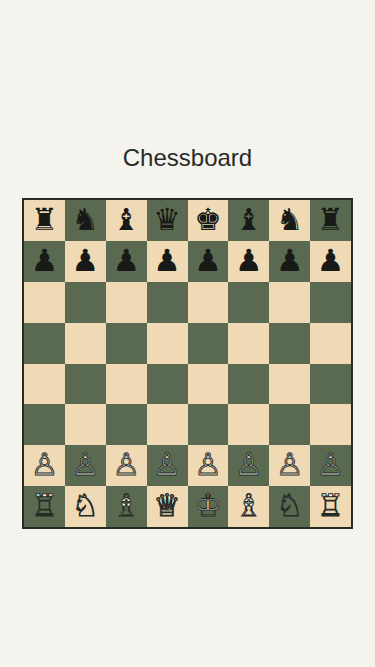
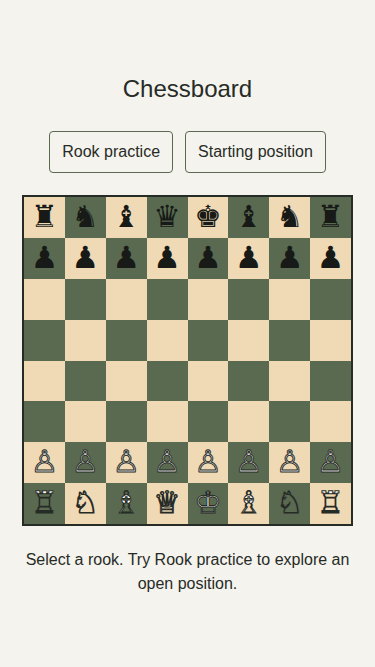
Implement rook movement with blocking, captures and browser proof

diff --git a/app/chessboard.tsx b/app/chessboard.tsx
@@ -1,28 +1,72 @@
-import Piece, { backRank } from "./piece";
+"use client";
 
-export default function Chessboard() {
+import { useState } from "react";
+import Piece from "./piece";
+import { type Board, canMoveRook, moveRook, rookPractice, squareName, startingBoard } from "./movement";
+
+export function BoardView({ board = startingBoard(), selected = null, onSquare = () => {} }: {
+  board?: Board;
+  selected?: number | null;
+  onSquare?: (index: number) => void;
+}) {
   return (
-    <div
-      className="chessboard"
-      role="group"
-      aria-label="Chessboard: 16 white pieces and 16 black pieces in their starting positions."
-    >
-      {Array.from({ length: 64 }, (_, index) => {
-        const row = Math.floor(index / 8);
-        const column = index % 8;
-        const color = (row + column) % 2 === 0 ? "light" : "dark";
-        const type = row === 0 || row === 7 ? backRank[column]
-          : row === 1 || row === 6 ? "pawn" : null;
-
+    <div className="chessboard" role="group" aria-label="Chessboard: select a rook, then a square on its rank or file.">
+      {board.map((piece, index) => {
+        const color = (Math.floor(index / 8) + index % 8) % 2 === 0 ? "light" : "dark";
+        const destination = selected !== null && canMoveRook(board, selected, index);
         return (
-          <div
+          <button
             key={index}
+            type="button"
             className={`square square--${color}`}
+            aria-label={`${squareName(index)}: ${piece ? `${piece.color} ${piece.type}` : "empty"}${destination ? ", available move" : ""}`}
+            aria-pressed={selected === index}
+            data-destination={destination || undefined}
+            onClick={() => onSquare(index)}
           >
-            {type && <Piece color={row < 2 ? "black" : "white"} type={type} />}
-          </div>
+            {piece && <Piece color={piece.color} type={piece.type} />}
+          </button>
         );
       })}
     </div>
+  );
+}
+
+export default function Chessboard() {
+  const [board, setBoard] = useState(startingBoard);
+  const [selected, setSelected] = useState<number | null>(null);
+  const [message, setMessage] = useState("Select a rook. Try Rook practice to explore an open position.");
+
+  function onSquare(index: number) {
+    if (selected === index) {
+      setSelected(null);
+      setMessage("Selection cleared.");
+    } else if (selected !== null && canMoveRook(board, selected, index)) {
+      setBoard(moveRook(board, selected, index));
+      setSelected(null);
+      setMessage(`Rook moved from ${squareName(selected)} to ${squareName(index)}.`);
+    } else if (board[index]?.type === "rook") {
+      setSelected(index);
+      setMessage(`Rook selected on ${squareName(index)}. Choose a highlighted square.`);
+    } else {
+      setMessage(selected === null ? "Select a rook to move." : "That move is unavailable. Choose a highlighted square.");
+    }
+  }
+
+  function reset(practice: boolean) {
+    setBoard(practice ? rookPractice() : startingBoard());
+    setSelected(null);
+    setMessage(practice ? "Rook practice: move along a rank or file. Pieces block the path; opposing pieces can be captured." : "Starting position restored. The rooks are blocked by their own pieces.");
+  }
+
+  return (
+    <>
+      <div className="board-controls">
+        <button type="button" onClick={() => reset(true)}>Rook practice</button>
+        <button type="button" onClick={() => reset(false)}>Starting position</button>
+      </div>
+      <BoardView board={board} selected={selected} onSquare={onSquare} />
+      <p className="board-status" role="status">{message}</p>
+    </>
   );
 }

diff --git a/tests/e2e/chessboard.spec.ts b/tests/e2e/chessboard.spec.ts
@@ -51,3 +51,47 @@ for (const viewport of [
     await page.screenshot({ path: `docs/screenshots/chessboard-${viewport.name}.png`, fullPage: true });
   });
 }
+
+for (const mobile of [false, true]) {
+  test(`rook movement, blocking, capture and reset ${mobile ? 'mobile' : 'desktop'}`, async ({ page }) => {
+    await page.setViewportSize(mobile ? { width: 375, height: 812 } : { width: 1280, height: 1000 });
+    await page.goto('/');
+    const square = (name: string) => page.getByRole('button', { name: new RegExp(`^${name}:`) });
+    await square('a1').click();
+    await expect(page.locator('[data-destination]')).toHaveCount(0);
+    await square('a3').click();
+    await expect(square('a1')).toHaveAttribute('aria-label', 'a1: white rook');
+    await page.getByRole('button', { name: 'Rook practice', exact: true }).click();
+    await square('d4').focus();
+    await page.keyboard.press('Enter');
+    await expect(square('d4')).toHaveAttribute('aria-pressed', 'true');
+    await expect(square('d6')).toHaveAttribute('data-destination', 'true');
+    for (const name of ['e5', 'g4', 'h4', 'd7']) {
+      await square(name).click();
+      await expect(square('d4')).toHaveAttribute('aria-pressed', 'true');
+      await expect(page.getByRole('status')).toContainText('unavailable');
+    }
+    await page.screenshot({ path: `docs/screenshots/rook-selected-${mobile ? 'mobile' : 'desktop'}.png`, fullPage: true });
+    await square('a4').click();
+    await expect(square('d4')).toHaveAttribute('aria-label', 'd4: empty');
+    await expect(square('a4')).toHaveAttribute('aria-label', 'a4: white rook');
+    await square('a4').click();
+    await square('d4').click();
+    await square('d4').click();
+    await square('d6').focus();
+    await page.keyboard.press('Space');
+    await expect(square('d6')).toHaveAttribute('aria-label', 'd6: white rook');
+    await expect(page.getByRole('img', { name: 'black pawn', exact: true })).toHaveCount(0);
+    await expect(page.getByRole('status')).toHaveText('Rook moved from d4 to d6.');
+    await page.screenshot({ path: `docs/screenshots/rook-capture-${mobile ? 'mobile' : 'desktop'}.png`, fullPage: true });
+    await square('h8').click();
+    await square('h1').click();
+    await expect(square('h1')).toHaveAttribute('aria-label', 'h1: black rook');
+    await square('h1').click();
+    await square('h1').click();
+    await expect(square('h1')).toHaveAttribute('aria-pressed', 'false');
+    await page.getByRole('button', { name: 'Starting position', exact: true }).click();
+    await expect(page.getByRole('img')).toHaveCount(32);
+    await expect(page.locator('[aria-pressed="true"]')).toHaveCount(0);
+  });
+}

diff --git a/app/movement.ts b/app/movement.ts
@@ -1,0 +1,48 @@
+import { backRank, type PieceColor, type PieceType } from "./piece";
+
+export type BoardPiece = { color: PieceColor; type: PieceType };
+export type Board = (BoardPiece | null)[];
+
+export function startingBoard(): Board {
+  return Array.from({ length: 64 }, (_, index) => {
+    const row = Math.floor(index / 8);
+    const type = row === 0 || row === 7 ? backRank[index % 8]
+      : row === 1 || row === 6 ? "pawn" : null;
+    return type ? { color: row < 2 ? "black" : "white", type } : null;
+  });
+}
+
+export function rookPractice(): Board {
+  const board: Board = Array(64).fill(null);
+  board[35] = { color: "white", type: "rook" }; // d4
+  board[19] = { color: "black", type: "pawn" }; // d6
+  board[38] = { color: "white", type: "pawn" }; // g4
+  board[7] = { color: "black", type: "rook" }; // h8
+  return board;
+}
+
+export function squareName(index: number): string {
+  return `${"abcdefgh"[index % 8]}${8 - Math.floor(index / 8)}`;
+}
+
+export function canMoveRook(board: Board, from: number, to: number): boolean {
+  if (board.length !== 64 || !Number.isInteger(from) || !Number.isInteger(to)
+    || from < 0 || from >= 64 || to < 0 || to >= 64 || from === to) return false;
+  const piece = board[from];
+  if (piece?.type !== "rook" || board[to]?.color === piece.color) return false;
+  const sameRank = Math.floor(from / 8) === Math.floor(to / 8);
+  if (!sameRank && from % 8 !== to % 8) return false;
+  const step = Math.sign(to - from) * (sameRank ? 1 : 8);
+  for (let square = from + step; square !== to; square += step) {
+    if (board[square]) return false;
+  }
+  return true;
+}
+
+export function moveRook(board: Board, from: number, to: number): Board {
+  if (!canMoveRook(board, from, to)) return board;
+  const next = [...board];
+  next[to] = next[from];
+  next[from] = null;
+  return next;
+}

diff --git a/app/globals.css b/app/globals.css
@@ -60,3 +60,41 @@ h1 {
 .square--dark {
   background: #596a50;
 }
+
+.square {
+  border: 0;
+  padding: 0;
+  cursor: pointer;
+}
+
+.square[aria-pressed="true"] {
+  box-shadow: inset 0 0 0 4px #a54d00;
+}
+
+.square[data-destination] {
+  box-shadow: inset 0 0 0 3px #286ca0;
+}
+
+.square:focus-visible {
+  outline: 3px solid #161616;
+  outline-offset: -6px;
+}
+
+.board-controls {
+  display: flex;
+  gap: 12px;
+}
+
+.board-controls button {
+  border: 1px solid #596a50;
+  border-radius: 4px;
+  padding: 8px 12px;
+  cursor: pointer;
+}
+
+.board-status {
+  margin: 0;
+  max-width: 640px;
+  min-height: 3em;
+  text-align: center;
+}

diff --git a/docs/rook-movement.md b/docs/rook-movement.md
@@ -1,0 +1,16 @@
+# Rook movement
+
+Select a rook, then a highlighted square on the same rank or file. A rook cannot jump over pieces or land on a friendly piece; landing on an opposing piece captures it. Buttons support mouse, touch, Enter and Space.
+
+The normal starting position remains available. Its rooks are blocked, so **Rook practice** opens a small position with both colors of rook, a friendly blocker on g4 and a capturable black pawn on d6. **Starting position** resets the board and selection.
+
+This implements rook movement only, without turn enforcement, check validation, castling or movement for other pieces. Issue #8's title and quoted rook rule determine the scope; its reference to bishop movement is treated as a typo.
+
+The Playwright suite captures these screenshots from the production build after verifying the position:
+
+| Proof | Desktop | Mobile |
+| --- | --- | --- |
+| Selected rook and available destinations, after rejecting diagonal and blocked moves | [Screenshot](screenshots/rook-selected-desktop.png) | [Screenshot](screenshots/rook-selected-mobile.png) |
+| Rook moved from d4 to d6 and captured the pawn | [Screenshot](screenshots/rook-capture-desktop.png) | [Screenshot](screenshots/rook-capture-mobile.png) |
+
+Validation: `npm run build`, `npm run lint`, `npm run test:unit`, `npm run test:integration`, `npm run test:e2e`, and `npm run test:coverage`. Browser tests exercise horizontal and vertical movement, both colors, captures, invalid moves, deselection, reset and keyboard input on desktop and mobile. Unit tests check all 4,096 source/destination pairs for each color on an otherwise empty board, and blockers in all four directions. CI publishes measured statement, branch, function and line coverage as a `coverage` Check Run.
